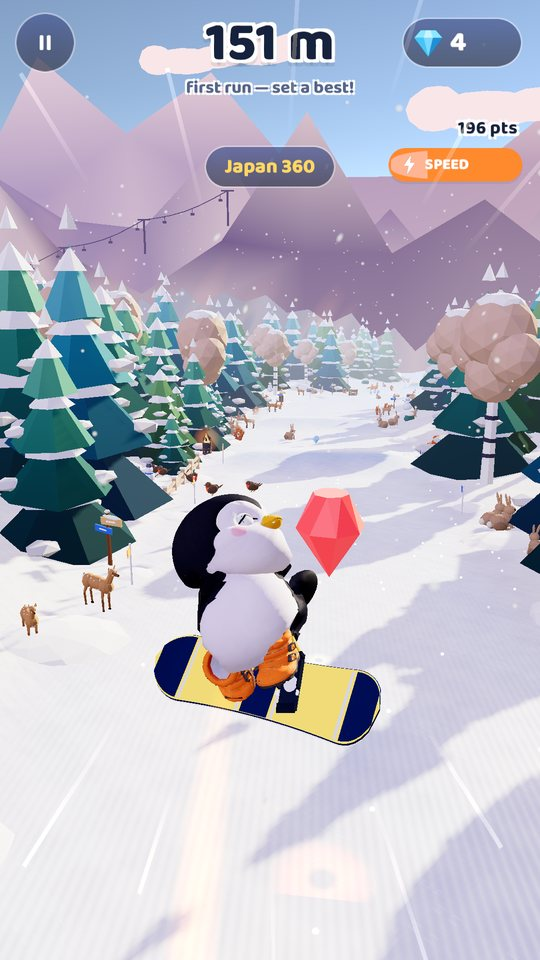
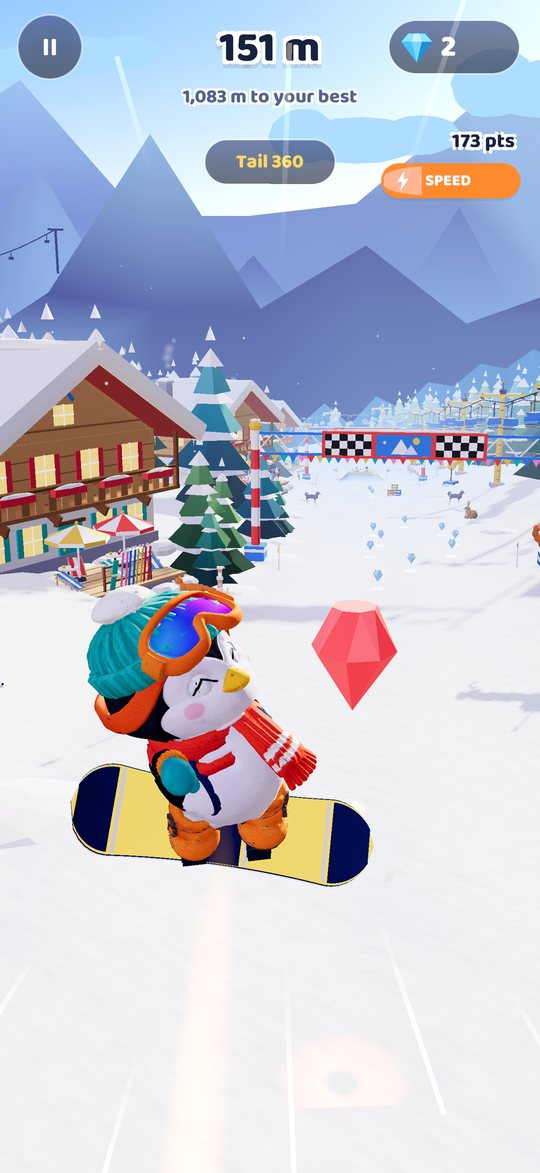
Snowbie: page and homepage card updated for 1.0 (ten worlds, leaderboards and achievements, sharing, Hold steering; Daily slope removed); eight current screenshots in a full-height phone frame; launch badge 'Coming in December'

diff --git a/snowbie/index.html b/snowbie/index.html
@@ -4,7 +4,7 @@
 <meta charset="utf-8">
 <meta name="viewport" content="width=device-width, initial-scale=1, viewport-fit=cover">
 <title>Snowbie: Snow Park Run | Golunex Games</title>
-<meta name="description" content="Snowbie is an endless snow park run by Golunex Games. Weave past snowmen, fly off ramps, land 30+ tricks and dress six riders. Plays offline.">
+<meta name="description" content="Snowbie is an endless snow park run by Golunex Games. Ski through ten winter worlds, fly off ramps, land 30+ tricks, dress six riders and climb the leaderboards. Plays offline.">
 <meta property="og:type" content="website">
 <meta property="og:title" content="Snowbie: Snow Park Run">
 <meta property="og:description" content="Ski the endless snow park: ramps, tricks, crystals and cute riders.">
@@ -49,12 +49,12 @@
         <img class="app-icon" src="/assets/snowbie-icon.png" alt="" width="104" height="104">
         <span class="eyebrow">An endless snow park run</span>
         <h1>Snowbie: ski the <span class="ice">snow park that never ends.</span></h1>
-        <p class="lead">Drag a finger to weave past snowmen, ice blocks and pines. Hit the ramps, fly, and land a flip, a spin or a grab for big points, while the slope keeps getting faster.</p>
-        <span class="badge">Coming soon to the App Store and Google Play</span>
+        <p class="lead">Hold your thumb left or right to carve past snowmen, ice blocks and pines. Hit the ramps, fly, and land a flip, a spin or a grab for big points, while the slope gets faster through ten winter worlds.</p>
+        <span class="badge">Coming in December to the App Store and Google Play</span>
       </div>
       <div class="art" aria-hidden="true">
-        <div class="phone back"><img src="/assets/sb-home.jpg" alt=""></div>
-        <div class="phone"><img src="/assets/sb-trick.jpg" alt=""></div>
+        <div class="phone tall back"><img src="/assets/sb-home.jpg" alt=""></div>
+        <div class="phone tall"><img src="/assets/sb-trick.jpg" alt=""></div>
       </div>
     </div>
   </section>
@@ -66,10 +66,14 @@
         <h2>Ten winter worlds</h2>
       </div>
       <div class="shots" aria-label="Screenshots">
-        <div class="phone"><img src="/assets/sb-home.jpg" alt="Title screen with Snowbie, the Play button and the daily bonus" loading="lazy"></div>
-        <div class="phone"><img src="/assets/sb-trick.jpg" alt="Pengo flying off a ramp on a snowboard" loading="lazy"></div>
-        <div class="phone"><img src="/assets/sb-village.jpg" alt="A run through the snow village with snowmen" loading="lazy"></div>
-        <div class="phone"><img src="/assets/sb-riders.jpg" alt="Rider screen with Pengo and the outfits" loading="lazy"></div>
+        <div class="phone tall"><img src="/assets/sb-home.jpg" alt="The home screen with Snowbie, the day 3 bonus, a mission and the Play button" loading="lazy"></div>
+        <div class="phone tall"><img src="/assets/sb-market.jpg" alt="Snowbie skiing through the Christmas Market at night" loading="lazy"></div>
+        <div class="phone tall"><img src="/assets/sb-trick.jpg" alt="Pengo on a snowboard doing a Tail 360 off a ramp" loading="lazy"></div>
+        <div class="phone tall"><img src="/assets/sb-tundra.jpg" alt="Skiing under the northern lights in the Aurora Tundra" loading="lazy"></div>
+        <div class="phone tall"><img src="/assets/sb-riders.jpg" alt="The Riders screen with Pengo, the outfit and skis or snowboard" loading="lazy"></div>
+        <div class="phone tall"><img src="/assets/sb-ramps.jpg" alt="Rudo hitting a boost pad before a row of ramps in the Crystal Canyon" loading="lazy"></div>
+        <div class="phone tall"><img src="/assets/sb-shield.jpg" alt="Snowbie inside a shield bubble past a line of snowmen" loading="lazy"></div>
+        <div class="phone tall"><img src="/assets/sb-missions.jpg" alt="Missions and the seven-day daily bonus" loading="lazy"></div>
       </div>
     </div>
   </section>
@@ -82,11 +86,14 @@
       </div>
       <div class="tiles">
         <div class="tile"><div class="ic blue"><svg viewBox="0 0 24 24" fill="none" stroke="currentColor" stroke-width="2.2" stroke-linecap="round" stroke-linejoin="round"><path d="M3 20l7-12 4 6 2-3 5 9z"/></svg></div><h3>Ramps and 30+ tricks</h3><p>Backflips, corks, rodeos, double flips, grabs and style poses.</p></div>
+        <div class="tile"><div class="ic violet"><svg viewBox="0 0 24 24" fill="none" stroke="currentColor" stroke-width="2.2" stroke-linecap="round" stroke-linejoin="round"><path d="M2 20l6-10 4 6 3-4 7 8z"/><circle cx="17" cy="6" r="2"/></svg></div><h3>Ten winter worlds</h3><p>Pine forest, frozen lake, crystal canyon, ice cave, hot springs, the northern lights, a Christmas market and more. A new order every run, each world with its own music.</p></div>
         <div class="tile"><div class="ic violet"><svg viewBox="0 0 24 24" fill="none" stroke="currentColor" stroke-width="2.2" stroke-linecap="round" stroke-linejoin="round"><circle cx="9" cy="8" r="4"/><path d="M2 21c0-4 3-6 7-6s7 2 7 6M17 4a4 4 0 0 1 0 8M22 21c0-3-1.5-5-4-6"/></svg></div><h3>Six riders</h3><p>Snowbie, Kiti, Pengo, Rudo, Yeti and Byte, on skis or a snowboard, with outfits in your colours.</p></div>
-        <div class="tile"><div class="ic amber"><svg viewBox="0 0 24 24" fill="none" stroke="currentColor" stroke-width="2.2" stroke-linecap="round" stroke-linejoin="round"><rect x="3" y="5" width="18" height="16" rx="3"/><path d="M3 10h18M8 3v4M16 3v4"/></svg></div><h3>Missions and leaderboards</h3><p>Missions, a daily bonus, leaderboards and achievements.</p></div>
-        <div class="tile"><div class="ic orange"><svg viewBox="0 0 24 24" fill="none" stroke="currentColor" stroke-width="2.2" stroke-linecap="round" stroke-linejoin="round"><path d="M12 3l7 3v6c0 4.5-3 7.5-7 9-4-1.5-7-4.5-7-9V6z"/><path d="M9 12l2 2 4-4"/></svg></div><h3>Offline, no account</h3><p>No sign-in needed. Cloud save keeps your progress when you change phones.</p></div>
-        <div class="tile"><div class="ic magenta"><svg viewBox="0 0 24 24" fill="none" stroke="currentColor" stroke-width="2.2" stroke-linecap="round" stroke-linejoin="round"><path d="M12 2v20M4 6l16 12M20 6L4 18"/></svg></div><h3>Animals everywhere</h3><p>Hares, foxes, penguins, seals, owls, and a polar bear crossing the piste.</p></div>
-        <div class="tile"><div class="ic blue"><svg viewBox="0 0 24 24" fill="none" stroke="currentColor" stroke-width="2.2" stroke-linecap="round" stroke-linejoin="round"><circle cx="12" cy="12" r="9"/><path d="M3 12h18M12 3c2.5 2.6 3.8 5.6 3.8 9s-1.3 6.4-3.8 9c-2.5-2.6-3.8-5.6-3.8-9S9.5 5.6 12 3z"/></svg></div><h3>15 languages</h3><p>English, Türkçe, Deutsch, Français, Español, Italiano, Português, Nederlands, Polski, Русский, Bahasa Indonesia, Tiếng Việt, 日本語, 한국어 and 中文.</p></div>
+        <div class="tile"><div class="ic amber"><svg viewBox="0 0 24 24" fill="none" stroke="currentColor" stroke-width="2.2" stroke-linecap="round" stroke-linejoin="round"><rect x="3" y="5" width="18" height="16" rx="3"/><path d="M3 10h18M8 3v4M16 3v4"/></svg></div><h3>Missions and a daily bonus</h3><p>Three missions at a time, and a bonus that grows every day you come back in a row.</p></div>
+        <div class="tile"><div class="ic orange"><svg viewBox="0 0 24 24" fill="none" stroke="currentColor" stroke-width="2.2" stroke-linecap="round" stroke-linejoin="round"><path d="M8 21h8M12 17v4M7 4h10v5a5 5 0 0 1-10 0z"/><path d="M17 5h3v2a3 3 0 0 1-3 3M7 5H4v2a3 3 0 0 0 3 3"/></svg></div><h3>Leaderboards and achievements</h3><p>Longest run, today's longest run and best score, plus 16 achievements, with Game Center and Google Play Games.</p></div>
+        <div class="tile"><div class="ic magenta"><svg viewBox="0 0 24 24" fill="none" stroke="currentColor" stroke-width="2.2" stroke-linecap="round" stroke-linejoin="round"><circle cx="18" cy="5" r="3"/><circle cx="6" cy="12" r="3"/><circle cx="18" cy="19" r="3"/><path d="M8.6 13.5l6.8 4M15.4 6.5l-6.8 4"/></svg></div><h3>Share your best run</h3><p>Send a picture of your run to a friend and dare them to beat it.</p></div>
+        <div class="tile"><div class="ic blue"><svg viewBox="0 0 24 24" fill="none" stroke="currentColor" stroke-width="2.2" stroke-linecap="round" stroke-linejoin="round"><path d="M12 3l7 3v6c0 4.5-3 7.5-7 9-4-1.5-7-4.5-7-9V6z"/><path d="M9 12l2 2 4-4"/></svg></div><h3>Offline, no account</h3><p>No sign-in needed. Cloud save keeps your progress when you change phones.</p></div>
+        <div class="tile"><div class="ic violet"><svg viewBox="0 0 24 24" fill="none" stroke="currentColor" stroke-width="2.2" stroke-linecap="round" stroke-linejoin="round"><path d="M12 2v20M4 6l16 12M20 6L4 18"/></svg></div><h3>Animals everywhere</h3><p>Hares, foxes, penguins, seals, owls, and a polar bear crossing the piste.</p></div>
+        <div class="tile"><div class="ic amber"><svg viewBox="0 0 24 24" fill="none" stroke="currentColor" stroke-width="2.2" stroke-linecap="round" stroke-linejoin="round"><circle cx="12" cy="12" r="9"/><path d="M3 12h18M12 3c2.5 2.6 3.8 5.6 3.8 9s-1.3 6.4-3.8 9c-2.5-2.6-3.8-5.6-3.8-9S9.5 5.6 12 3z"/></svg></div><h3>15 languages</h3><p>English, Türkçe, Deutsch, Français, Español, Italiano, Português, Nederlands, Polski, Русский, Bahasa Indonesia, Tiếng Việt, 日本語, 한국어 and 中文.</p></div>
       </div>
     </div>
   </section>

diff --git a/index.html b/index.html
@@ -144,18 +144,18 @@
                 <span class="sub">An endless snow park run</span>
               </div>
             </div>
-            <p class="desc">Drag a finger to weave past snowmen, ice blocks and pines, then hit the ramps and land a flip, a spin or a grab for big points while the slope keeps getting faster. Six cute riders on skis or a snowboard, a daily slope that is the same for everyone, and foxes, penguins and a polar bear crossing the piste. Plays offline, no account needed.</p>
-            <div class="chips"><span class="chip">30+ tricks</span><span class="chip">6 riders</span><span class="chip">Daily slope</span><span class="chip">Plays offline</span><span class="chip">15 languages</span></div>
-            <span class="badge">Coming soon to the App Store and Google Play</span>
+            <p class="desc">Hold your thumb left or right to carve past snowmen, ice blocks and pines, then hit the ramps and land a flip, a spin or a grab for big points while the slope gets faster. Ten winter worlds, six cute riders on skis or a snowboard, leaderboards and achievements, and foxes, penguins and a polar bear crossing the piste. Plays offline, no account needed.</p>
+            <div class="chips"><span class="chip">30+ tricks</span><span class="chip">10 worlds</span><span class="chip">6 riders</span><span class="chip">Leaderboards</span><span class="chip">Plays offline</span><span class="chip">15 languages</span></div>
+            <span class="badge">Coming in December to the App Store and Google Play</span>
             <div class="actions">
               <a class="btn" href="/snowbie/">About the game</a>
               <a class="btn ghost" href="mailto:golunexgames@gmail.com?subject=Snowbie%20launch">Tell me when it's out</a>
             </div>
           </div>
           <div class="shots" aria-label="Snowbie screenshots">
-            <div class="phone"><img src="/assets/sb-home.jpg" alt="Title screen with Snowbie and the Play button" loading="lazy"></div>
-            <div class="phone"><img src="/assets/sb-trick.jpg" alt="Pengo flying off a ramp on a snowboard" loading="lazy"></div>
-            <div class="phone"><img src="/assets/sb-village.jpg" alt="A run through the snow village with snowmen" loading="lazy"></div>
+            <div class="phone tall"><img src="/assets/sb-home.jpg" alt="The home screen with Snowbie and the Play button" loading="lazy"></div>
+            <div class="phone tall"><img src="/assets/sb-market.jpg" alt="Snowbie skiing through the Christmas Market at night" loading="lazy"></div>
+            <div class="phone tall"><img src="/assets/sb-trick.jpg" alt="Pengo on a snowboard doing a Tail 360 off a ramp" loading="lazy"></div>
           </div>
         </div>
       </article>

diff --git a/styles.css b/styles.css
@@ -98,6 +98,8 @@ body::before { content: ""; position: fixed; inset: 0 0 auto; height: env(safe-a
   background: linear-gradient(160deg, #3A2479, #140A30); box-shadow: 0 30px 70px rgba(0, 0, 0, .5), inset 0 0 0 1.5px rgba(255, 255, 255, .1);
 }
 .phone img { width: 100%; height: 100%; object-fit: cover; object-position: top; border-radius: 28px; }
+/* full-height phone shots (Snowbie: 1320x2868 captures, nothing cropped) */
+.phone.tall { aspect-ratio: 1320 / 2868; }
 .hero .phone { transform: rotate(4deg); }
 .hero .phone.back { position: absolute; transform: translateX(-42%) rotate(-9deg) scale(.82); opacity: .7; }
 @media (max-width: 520px) { .hero .phone.back { display: none; } .hero .art { min-height: 0; } }
